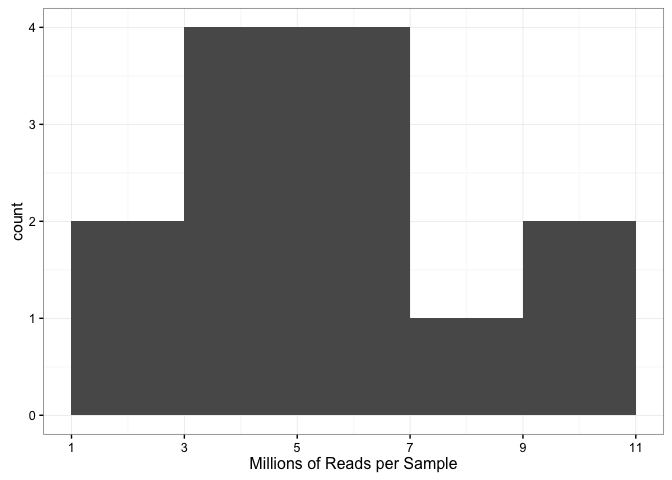
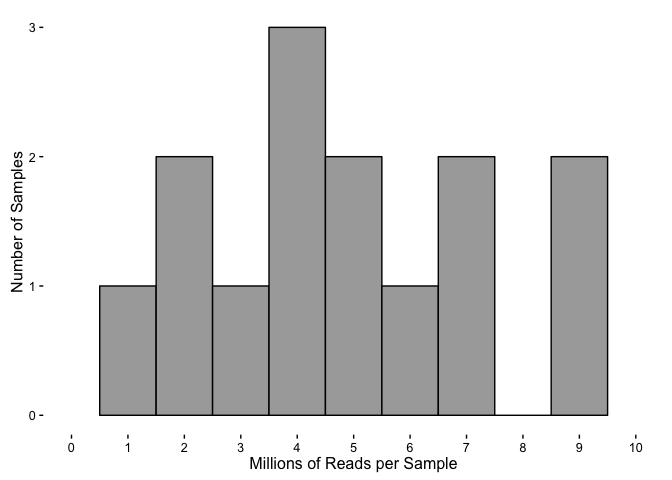
better histogram

diff --git a/bin/DissociationTest.md b/bin/DissociationTest.md
@@ -125,7 +125,7 @@ dim( counts )
     ## [1] 22485    14
 
 ``` r
-colSums( counts ) / 1e06  # in millions of reads
+colSums( counts ) / 1e06  # in millions of gene counts
 ```
 
     ## 100-CA1-1 100-CA1-2 100-CA1-3 100-CA3-1 100-CA3-4  100-DG-2  100-DG-3 
@@ -185,13 +185,12 @@ sum(readcounts$V2)  #68864306
 readcounts$millionreads <- readcounts$V2/1000000
 
 ggplot(readcounts, aes(x=millionreads)) + 
-  geom_histogram(binwidth=2) +
-  theme_bw() +
+  geom_histogram(binwidth = 1, colour = "black", fill = "darkgrey", ) +
+  theme_classic() +
   scale_x_continuous(name = "Millions of Reads per Sample",
-                           breaks = seq(1, 11, 2),
-                           limits=c(1, 11)) 
+                           breaks = seq(0, 10, 1),
+                           limits=c(0, 10)) +
+  scale_y_continuous(name = "Number of Samples")
 ```
-
-    ## Warning: Removed 1 rows containing non-finite values (stat_bin).
 
 ![](../figures/allregions_onlyhomodiss/readcounts-1.png)
